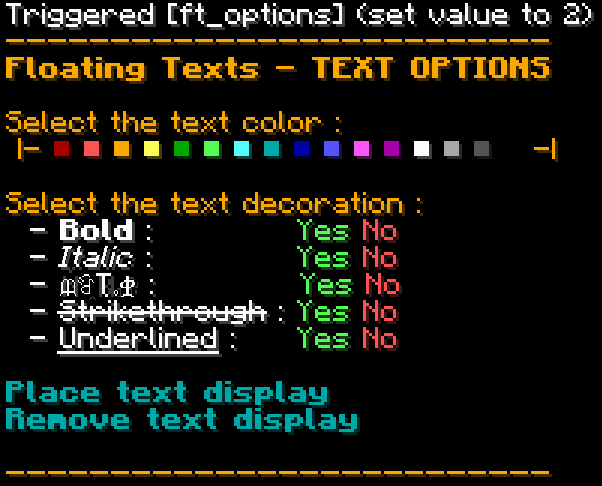
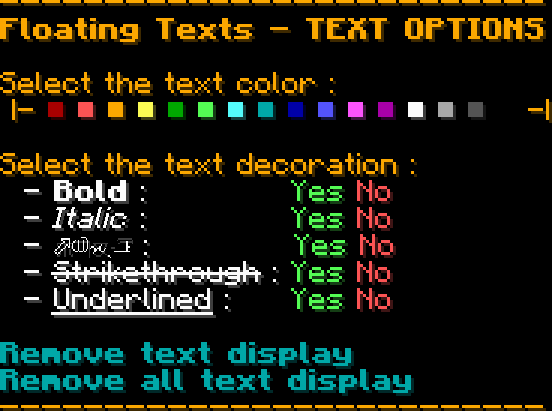
Update README.md

diff --git a/Floating_Texts/README.md b/Floating_Texts/README.md
@@ -1,14 +1,12 @@
-![banner](../images/banner.png)
+![banner](https://github.com/Aeldit/AD/blob/master/images/banner_small.png?raw=true)
 
-[![modrinth_link](https://img.shields.io/modrinth/dt/floating-texts?color=ae0000&labelColor=ae0000&label=Floating%20Texts&logo=modrinth&style=for-the-badge)](https://modrinth.com/datapack/floating-texts)
+## This datapack allows you to create floating texts, using armor stands
 
-## This datapack allows you to create floating texts, using text displays
-
-You can then change the color and the decoration (bold, underlined, ...) of the text in 3 different ways :
+You can then change the color and the decoration (bold, underlined, ...) of the text in 2 different ways :
 
 1. With the book, that can be obtained in survival but requires the minimum OP level for commands
 2. With the chat, which also requires the function commands permission
-3. With dyes (and other items that are easy to obtain in survival), which is fully survival and does not require any OP permission
+3. (Not implemented yet) With dyes (and other items that are easy to obtain in survival), which is fully survival and does not require any OP permission
 
  <iframe width="560" height="315"
 src="https://www.youtube.com/embed/bZK_s5yo_Lg"
@@ -22,7 +20,10 @@ allowfullscreen></iframe>
 
 ![page_1](https://github.com/Aeldit/AD/blob/master/images/ft_page_1.png?raw=true) ![page_2](https://github.com/Aeldit/AD/blob/master/images/ft_page_2.png?raw=true) ![page_3](https://github.com/Aeldit/AD/blob/master/images/ft_page_3.png?raw=true)
 
-> (to obtain the book, sign a book & quill with FT | To access the chat options, enter ```/trigger ft_options set 2``` in the chat)
+> To obtain the book you can :
+>
+> 1. Sign a book & quill with FT
+> 2. Use the chat options (enter ```/function floating_texts:chat/chat_options``` in the chat to access them)
 
 ![options_chat](https://github.com/Aeldit/AD/blob/master/images/ft_options_chat.png?raw=true)
 
@@ -31,6 +32,31 @@ allowfullscreen></iframe>
 ![example](https://github.com/Aeldit/AD/blob/master/images/ft_example.png?raw=true)
 
 > You can edit some options too !
-> (enter ```/trigger ft_options set 1```)
+> (enter ```/function floating_texts:settings/settings``` in the chat)
 
 ![options](https://github.com/Aeldit/AD/blob/master/images/ft_settings.png?raw=true)
+
+***
+
+> If you find any issue, please make sure to report it on github so I can fix it (both badges can be clicked on to
+> follow the link)
+>
+> [![github_issues](https://img.shields.io/github/issues/Aeldit/Cyan?color=red&style=for-the-badge&logo=github)](https://github.com/Aeldit/Cyan/issues)
+>
+> If you have a suggestion, you can go on my discord server and create a post in 🗽-suggestions-forum
+>
+> [![discord_badge](https://img.shields.io/discord/750243612473819188?color=7289da&label=DISCORD&logo=discord&logoColor=7289da&style=for-the-badge)](https://discord.gg/PcYPpqzhKS)
+
+***
+
+### Check out the rest of my projects
+
+[![cyan_badge](https://raw.githubusercontent.com/Aeldit/Aeldit/bef8e5f6a837ee8c3479a2550e92c0ac028200f3/images/cyan-cozy-minimal.svg)](https://modrinth.com/mod/cyan)
+[![cyansethome_badge](https://raw.githubusercontent.com/Aeldit/Aeldit/fdcc5b2b359f2bcc51654d9a973674c4d8557fd4/images/cyansethome-cozy-minimal.svg)](https://modrinth.com/mod/cyansethome)
+[![ctms_badge](https://raw.githubusercontent.com/Aeldit/Aeldit/d668bc7cd71d654d2331905a5ad425283dedab94/images/ctms-cozy-minimal.svg)](https://modrinth.com/mod/ctm-selector)
+[![cyanlib_badge](https://raw.githubusercontent.com/Aeldit/Aeldit/bef8e5f6a837ee8c3479a2550e92c0ac028200f3/images/cyanlib-cozy-minimal.svg)](https://modrinth.com/mod/cyanlib)
+[![ctm_badge](https://raw.githubusercontent.com/Aeldit/Aeldit/e2fb5f7ffe92301f627540cebca28d9aa90c641d/images/ctm-cozy-minimal.svg)](https://modrinth.com/resourcepack/ctm-of-fabric)
+[![ctm_faithful_badge](https://raw.githubusercontent.com/Aeldit/Aeldit/54529d9dbb33d35184f386269c889cef818e7e79/images/ctm-faithful-cozy-minimal.svg)](https://modrinth.com/resourcepack/ctm-faithful)
+[![ctm_create_badge](https://raw.githubusercontent.com/Aeldit/Aeldit/54529d9dbb33d35184f386269c889cef818e7e79/images/ctm-create-cozy-minimal.svg)](https://modrinth.com/resourcepack/ctm-create)
+[![dark_gui_badge](https://raw.githubusercontent.com/Aeldit/Aeldit/2f4a47b3752b28cbcd13c6d76c66a803d7fe1df5/images/dark-gui-cozy-minimal.svg)](https://modrinth.com/resourcepack/dark-smooth-gui)
+[![light_gui_badge](https://raw.githubusercontent.com/Aeldit/Aeldit/2f4a47b3752b28cbcd13c6d76c66a803d7fe1df5/images/light-gui-cozy-minimal.svg)](https://modrinth.com/resourcepack/light-smooth-gui)
